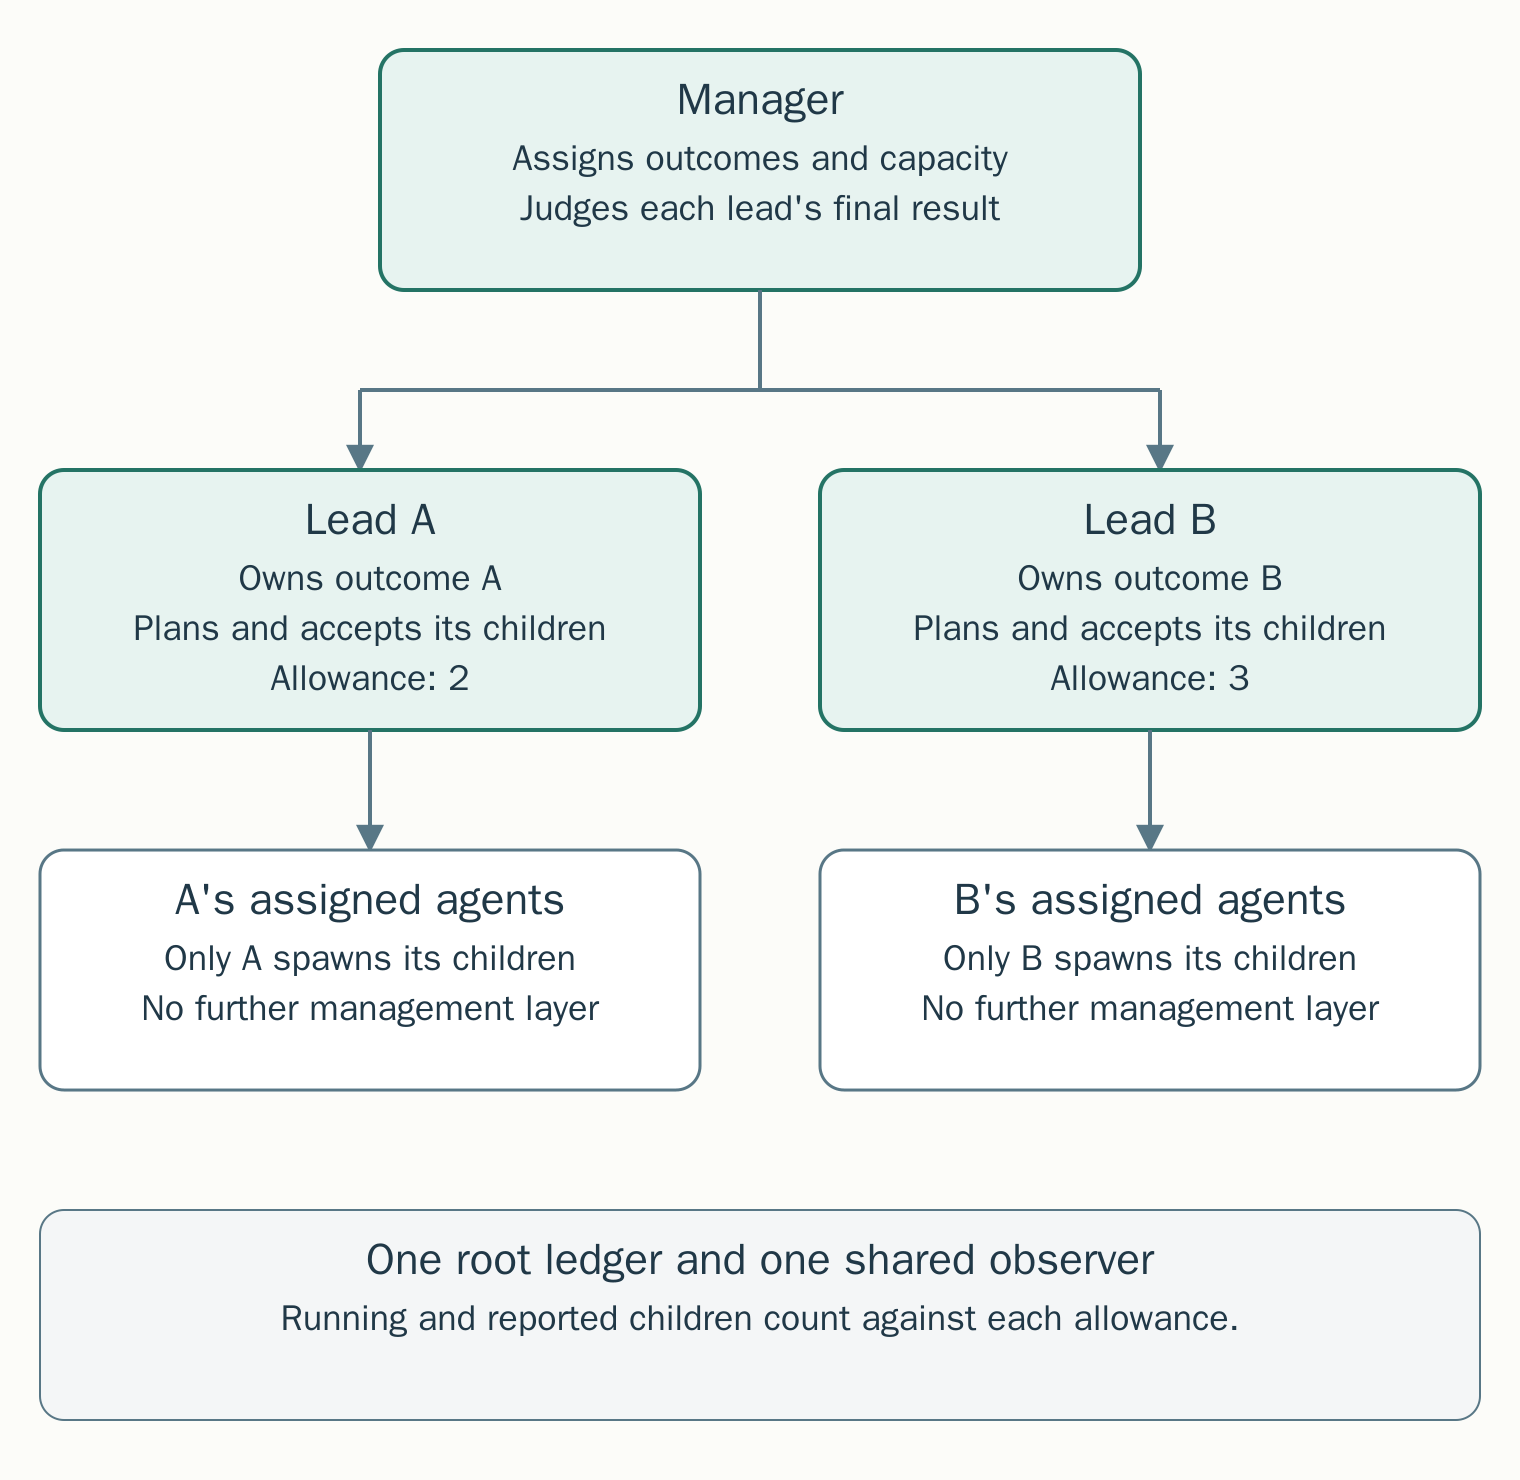
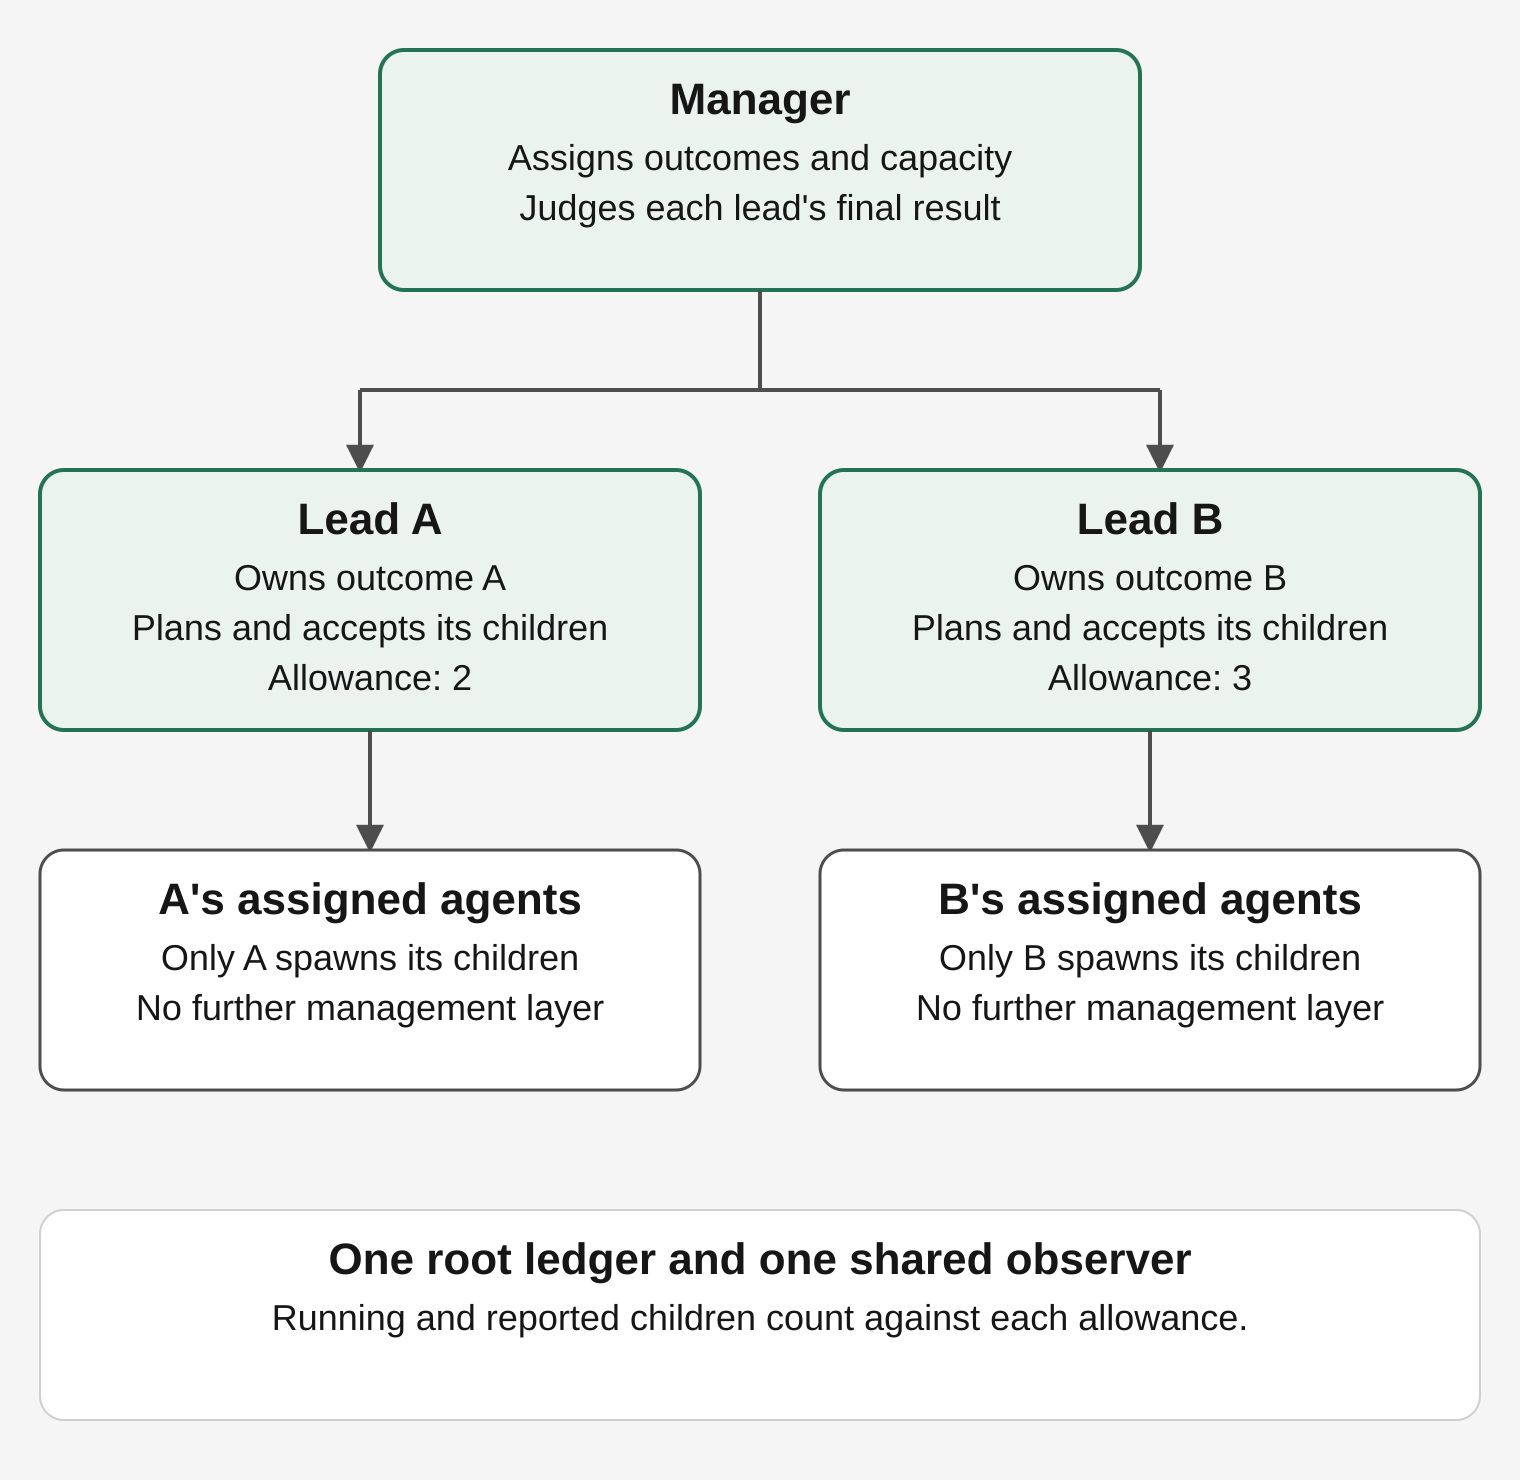
style: clarify lead-team diagram colours and observer alerts

diff --git a/styles/diagrams.css b/styles/diagrams.css
@@ -254,6 +254,14 @@ is supplied separately by figures.css. */
 
 	/* Lead-team diagrams share one visual vocabulary for roles and state. */
 	.prose .diagram-lead-team {
+		--color-team-active: light-dark(#2563a6, #83b5ec);
+		--color-team-active-bg: light-dark(#eaf1fa, #1b293b);
+		--color-team-reported: light-dark(#7750a8, #bd9be7);
+		--color-team-reported-bg: light-dark(#f2edf8, #2c233b);
+		--color-team-decision: light-dark(#237354, #85baa1);
+		--color-team-decision-bg: light-dark(#eaf3ed, #203129);
+		--color-team-rework: light-dark(#9a6215, #dcad61);
+		--color-team-rework-bg: light-dark(#fbf3e7, #332a1c);
 		font-family: var(--font-ui);
 	}
 
@@ -273,16 +281,28 @@ is supplied separately by figures.css. */
 		stroke-width: 1.5;
 	}
 
-	.prose .diagram-lead-team .accent-frame {
-		fill: var(--color-wash-1);
-		stroke: var(--color-accent);
+	.prose .diagram-lead-team .active-frame {
+		fill: var(--color-team-active-bg);
+		stroke: var(--color-team-active);
+		stroke-width: 2;
+	}
+
+	.prose .diagram-lead-team .reported-frame {
+		fill: var(--color-team-reported-bg);
+		stroke: var(--color-team-reported);
+		stroke-width: 2;
+	}
+
+	.prose .diagram-lead-team .decision-frame {
+		fill: var(--color-team-decision-bg);
+		stroke: var(--color-team-decision);
 		stroke-width: 2;
 	}
 
 	.prose .diagram-lead-team .quiet-frame,
 	.prose .diagram-lead-team .group-frame {
-		fill: var(--color-wash-2);
-		stroke: var(--color-muted);
+		fill: var(--color-surface);
+		stroke: var(--color-border);
 		stroke-width: 1;
 	}
 
@@ -291,17 +311,36 @@ is supplied separately by figures.css. */
 		stroke-dasharray: 6 5;
 	}
 
+	.prose .diagram-lead-team .rework-group {
+		fill: var(--color-team-rework-bg);
+		stroke: var(--color-team-rework);
+	}
+
 	.prose .diagram-lead-team .flow {
 		fill: none;
 		stroke: var(--color-muted);
 		stroke-width: 2;
 	}
 
-	.prose .diagram-lead-team .return-flow {
+	.prose .diagram-lead-team .return-flow,
+	.prose .diagram-lead-team .decision-flow {
 		fill: none;
-		stroke: var(--color-accent);
-		stroke-width: 2;
+		stroke: var(--color-team-rework);
+		stroke-width: 2.5;
 		stroke-dasharray: 6 4;
+	}
+
+	.prose .diagram-lead-team .decision-flow {
+		stroke: var(--color-team-decision);
+	}
+
+	.prose .diagram-lead-team .return-arrow,
+	.prose .diagram-lead-team .return-label {
+		fill: var(--color-team-rework);
+	}
+
+	.prose .diagram-lead-team .decision-arrow {
+		fill: var(--color-team-decision);
 	}
 
 	.prose .diagram-lead-team .arrowhead {

diff --git a/content/ai-engineering/lead-team.md b/content/ai-engineering/lead-team.md
@@ -148,6 +148,8 @@ The ledger supplies contracts, dependencies, owners, states and decision notes. 
 
 The team view shows the reporting hierarchy. The workflow view shows dependencies, including work awaiting a lead decision. Selecting a task reveals its contract, prerequisites and decision history; selecting an agent reveals its activity and usage. Run history connects hook refusals, send-backs and acceptances to their reasons and source times.
 
+A “Needs attention” panel collects blocked reports, reports awaiting the lead and refused spawns. A blocked-report card shows why the stop hook objected, so I can inspect the problem without searching the transcript.
+
 ![Recorded workflow with 29 tasks, a reported final check and queued packaging work.](/img/ai-engineering/lead-team/team-workflow.jpg "A recorded run, separate from the reading-time example. Follow final_check into package_prs on the right; an independent task is still running on the left. [Open figure at full size](/img/ai-engineering/lead-team/team-workflow.jpg)")
 
 Here, `final_check` is purple because it has reported and awaits acceptance. Its loop records two send-backs. `package_prs` remains queued behind it. An idle agent can therefore own a task that still blocks progress. Display labels add context: “sent back” explains a `running` task, while “blocked report” records a report-check problem. Neither is the agent's `BLOCKED` report status.
